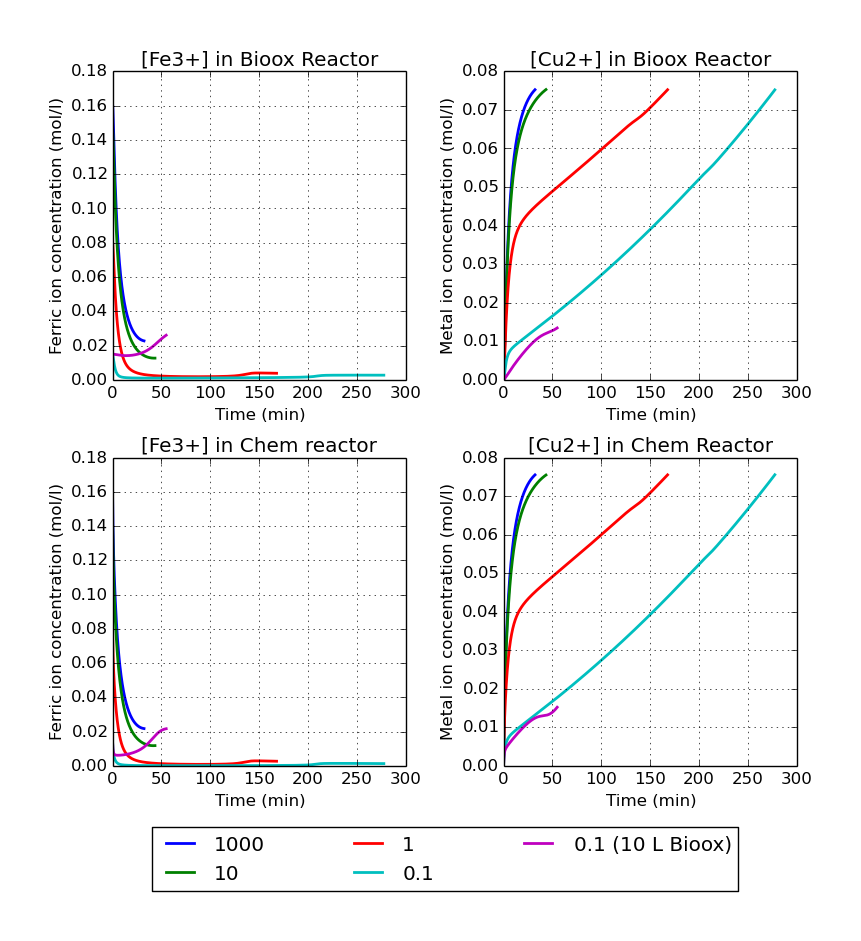
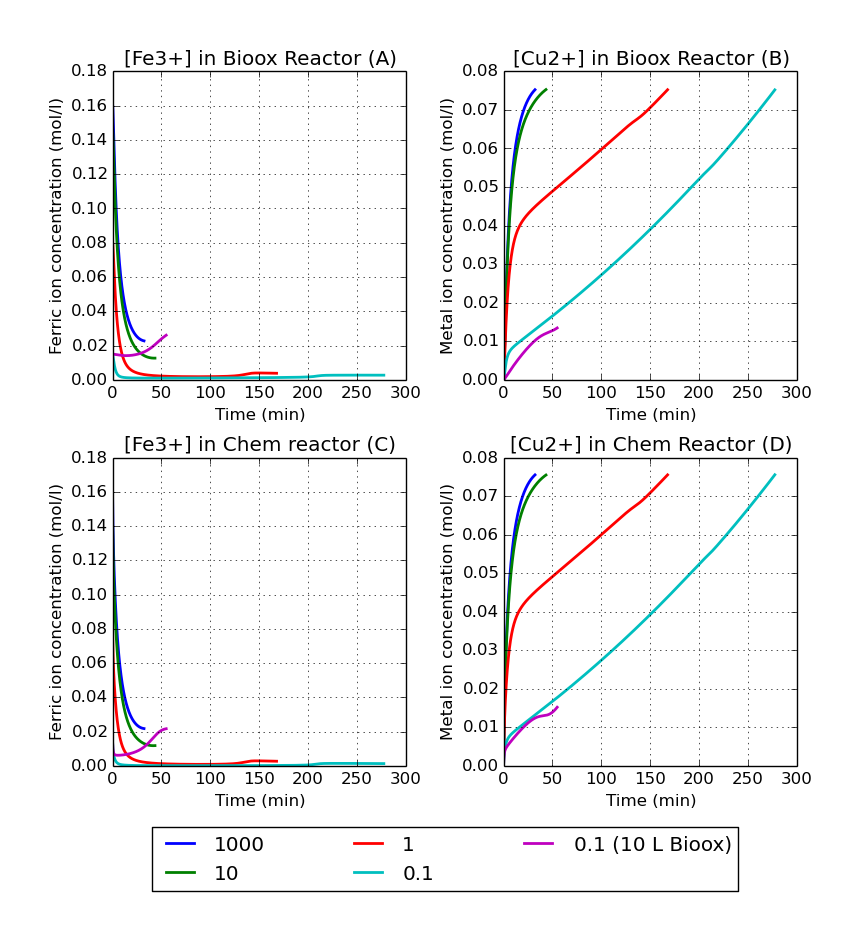
replotting

diff --git a/masters/calculations/management/commands/sensitivity_analysis.py b/masters/calculations/management/commands/sensitivity_analysis.py
@@ -194,7 +194,7 @@ class Command(BaseCommand):
         fig_subplot.set_xlabel("Time (min)")
         fig_subplot.set_ylabel("Ferric ion concentration (mol/l)")
         fig_subplot.set_ylim(0, 0.18)
-        fig_subplot.set_title("[Fe3+] in Bioox Reactor")
+        fig_subplot.set_title("[Fe3+] in Bioox Reactor (A)")
         fig_subplot.grid('on')
 
 
@@ -211,7 +211,7 @@ class Command(BaseCommand):
         fig_subplot = fig.add_subplot(222)
         fig_subplot.set_xlabel("Time (min)")
         fig_subplot.set_ylabel("Metal ion concentration (mol/l)")
-        fig_subplot.set_title("[Cu2+] in Bioox Reactor")
+        fig_subplot.set_title("[Cu2+] in Bioox Reactor (B)")
         # fig_subplot.set_ylim(0, 0.18)
         fig_subplot.grid('on')
 
@@ -239,7 +239,7 @@ class Command(BaseCommand):
         fig_subplot.set_xlabel("Time (min)")
         fig_subplot.set_ylabel("Ferric ion concentration (mol/l)")
         fig_subplot.set_ylim(0, 0.18)
-        fig_subplot.set_title("[Fe3+] in Chem reactor")
+        fig_subplot.set_title("[Fe3+] in Chem reactor (C)")
         fig_subplot.grid('on')
 
         for i, item in enumerate(analysis_list):
@@ -255,7 +255,7 @@ class Command(BaseCommand):
         fig_subplot = fig.add_subplot(224)
         fig_subplot.set_xlabel("Time (min)")
         fig_subplot.set_ylabel("Metal ion concentration (mol/l)")
-        fig_subplot.set_title("[Cu2+] in Chem Reactor")
+        fig_subplot.set_title("[Cu2+] in Chem Reactor (D)")
         fig_subplot.grid('on')
 
         for i, item in enumerate(analysis_list):
